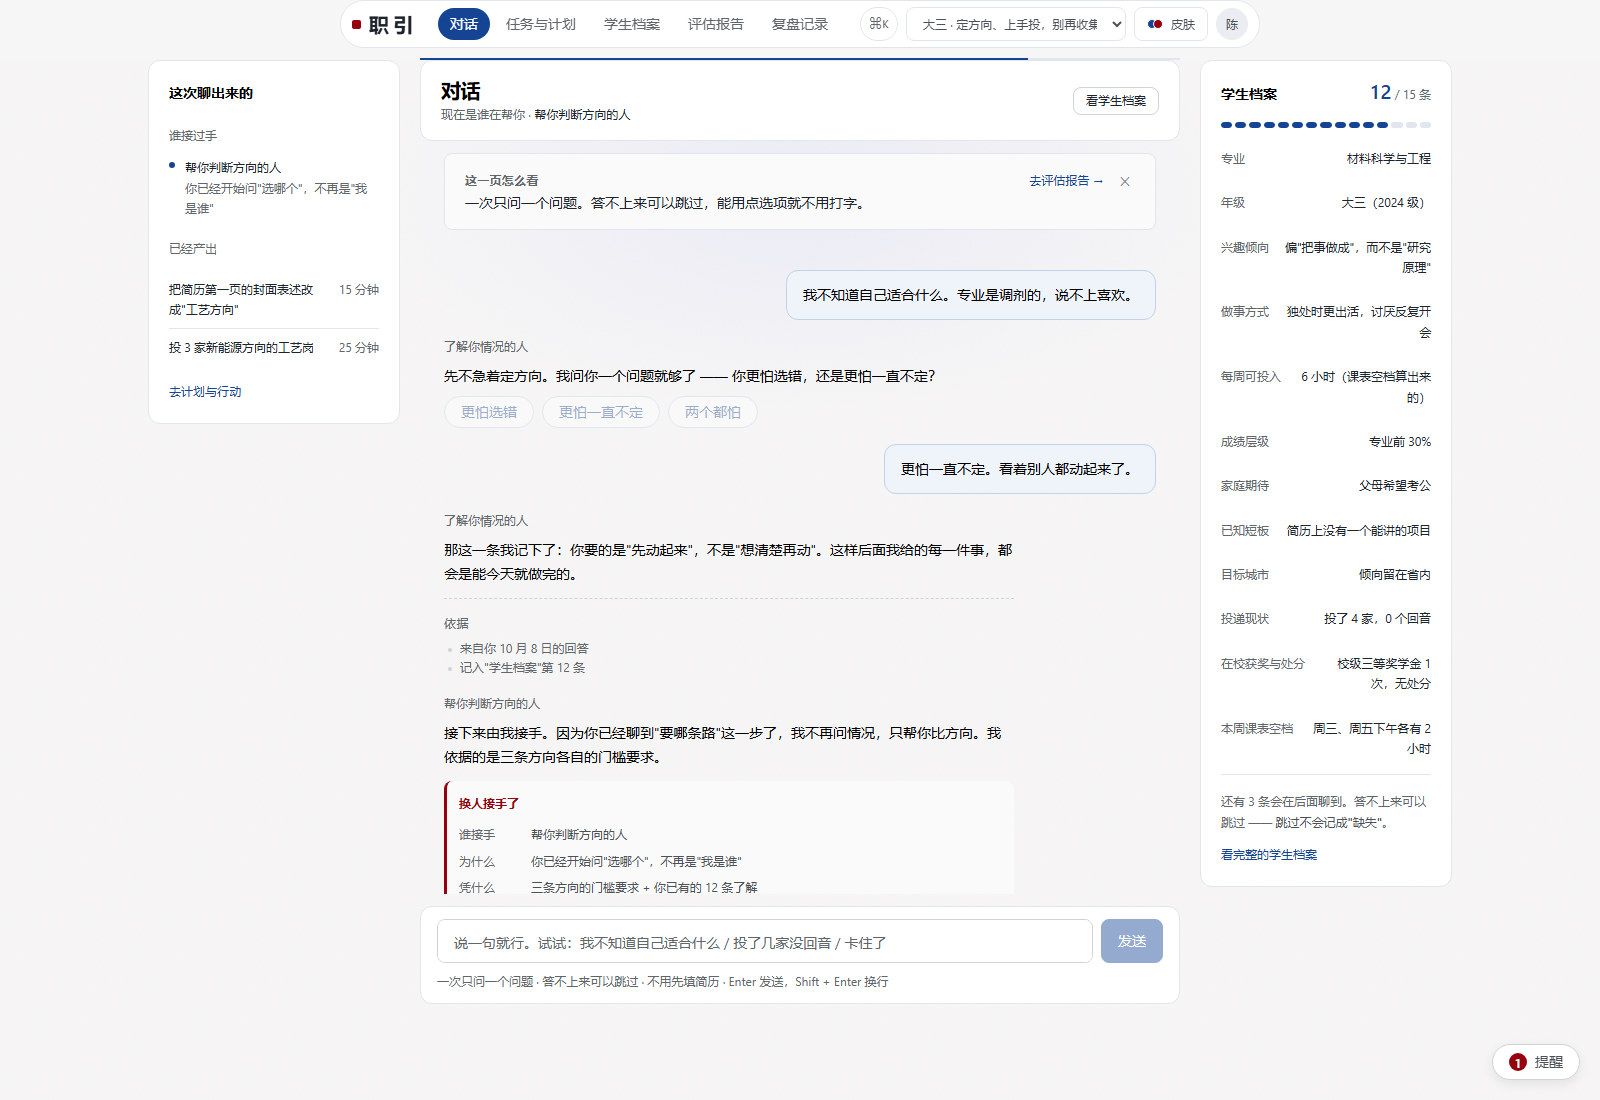
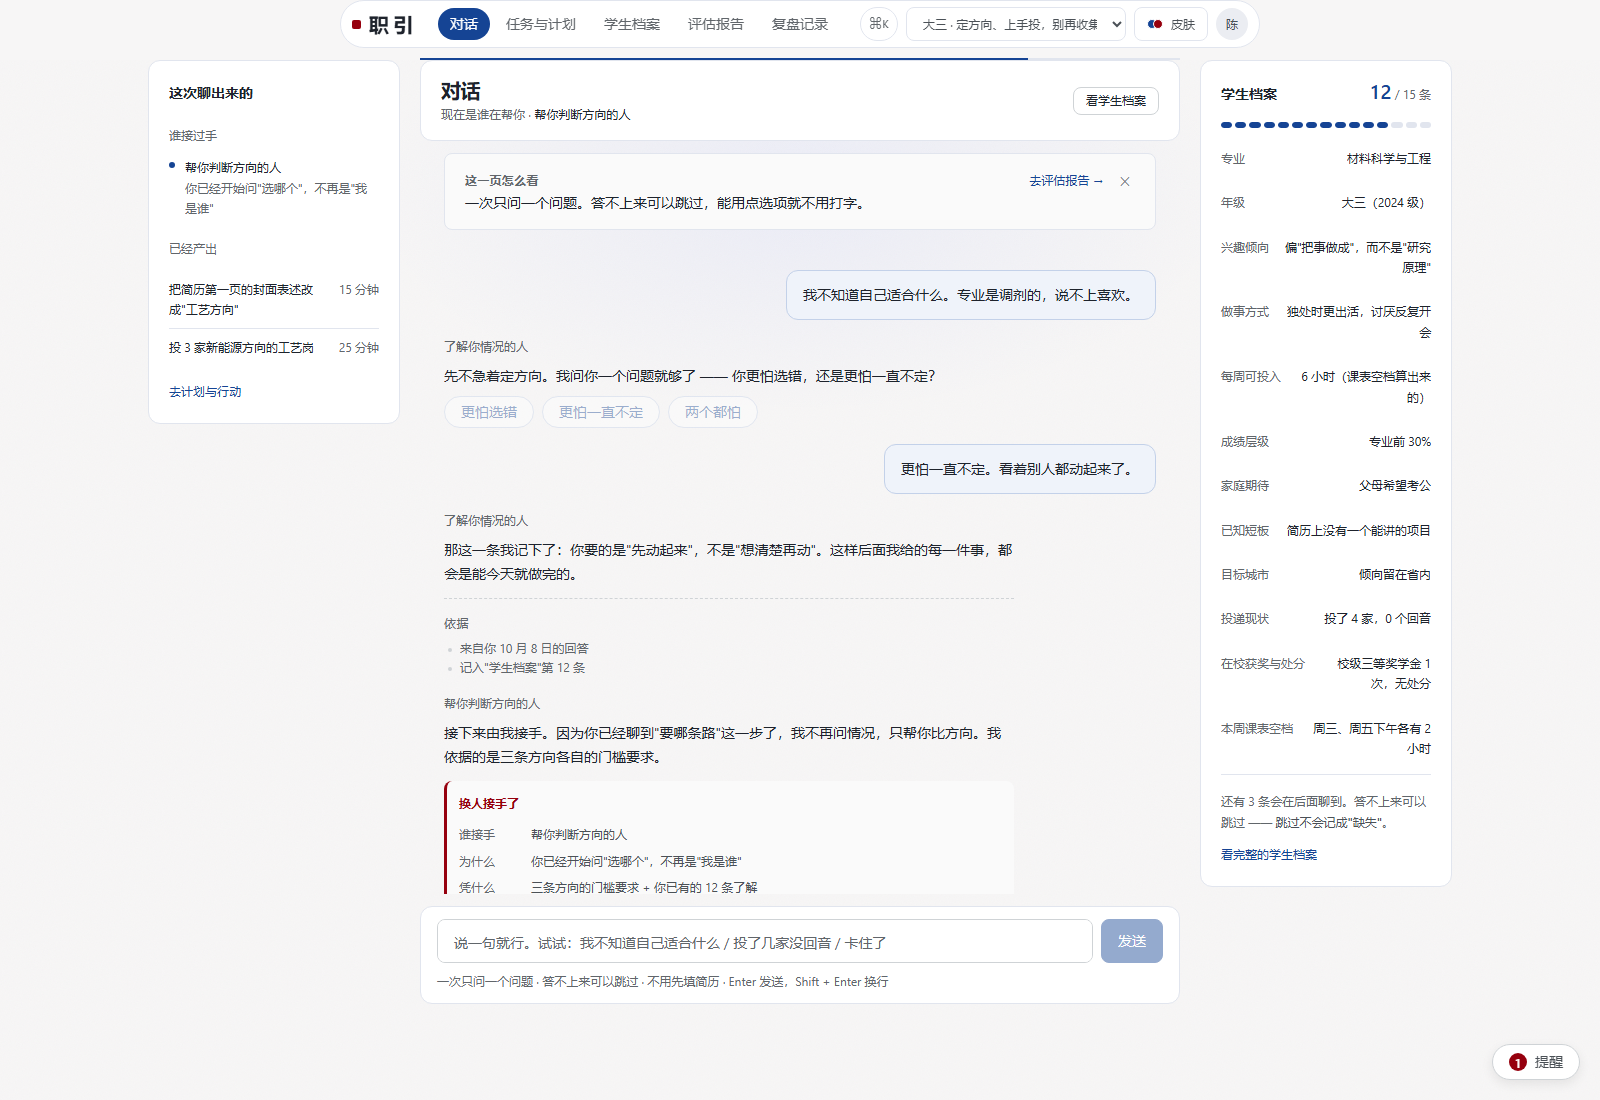
新前端：首页右栏用 grid-auto-flow dense 回填顶部，右栏成为连贯一列

diff --git a/redesign-demo/src/styles/base.css b/redesign-demo/src/styles/base.css
@@ -1692,6 +1692,10 @@ html.is-skin-switching *::after {
   grid-template-columns: minmax(0, 1fr) 384px;
   column-gap: var(--sp-7);
   align-items: start;
+  /* 【2026-10-12】必须是 dense：默认稀疏流沿游标往**下**找空位，
+     于是右栏那两行被挤到第 4、5 行 —— 右栏中段一片空。
+     dense 让它们回填顶部空位，右栏才是连贯的一列。 */
+  grid-auto-flow: row dense;
 }
 
 .ledger--rail > .ledger__row {
